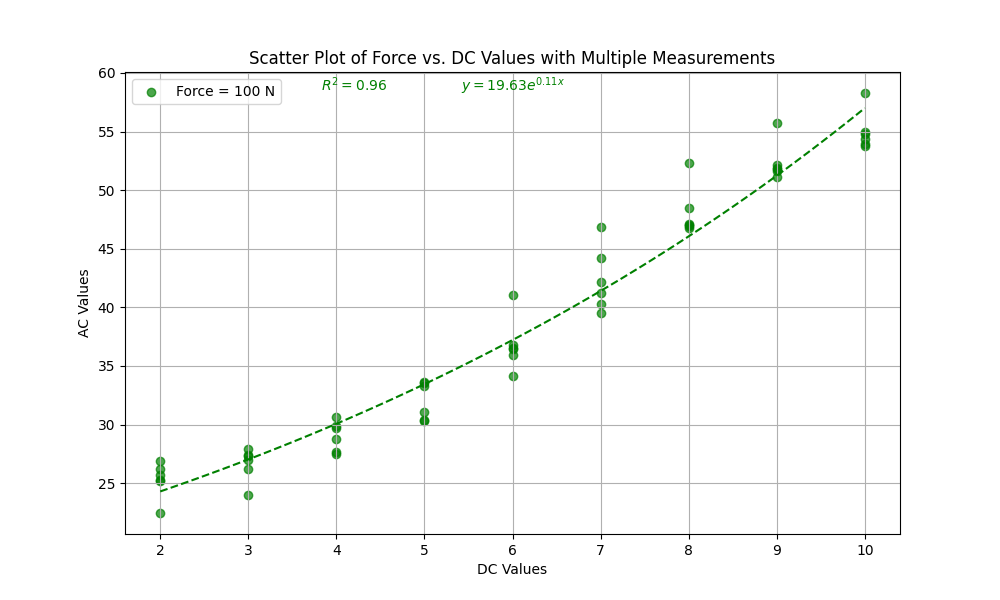
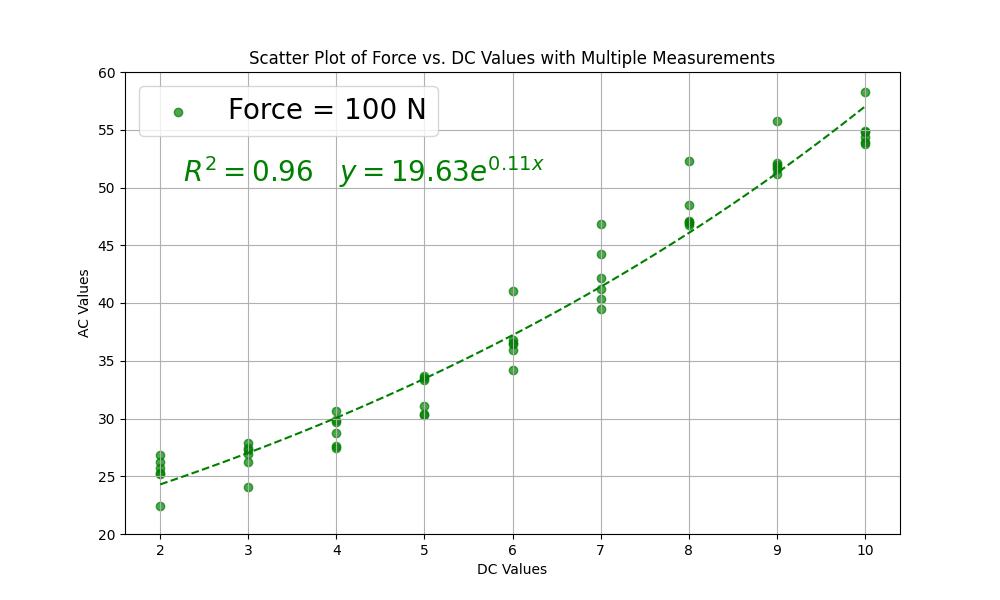
new plot

diff --git a/ProcessData.py b/ProcessData.py
@@ -183,21 +183,23 @@ for idx, (force, ac_values_list) in enumerate(data.items()):
         r_squared = 1 - (ss_res / ss_tot)
 
         # Determine the position to display R^2
-        plt.text(4.2,58.5,f'$R^2 = {r_squared:.2f}$', color=color, fontsize=10, ha='center')
+        plt.text(3,50.5,f'$R^2 = {r_squared:.2f}$', color=color, fontsize=20, ha='center')
         
         # Create the equation string
         a, b = params  # a and b are the coefficients for the exponential fit
         equation = f'$y = {a:.2f} e^{{{b:.2f} x}}$'
 
         # Display the equation on the plot
-        plt.text(6,58.5, equation, color=color, fontsize=10, ha='center')
+        plt.text(5.2,50.5, equation, color=color, fontsize=20, ha='center')
+
+        plt.ylim(20,60)
 
     # Adding labels and title
     plt.title('Scatter Plot of Force vs. DC Values with Multiple Measurements')
     plt.xlabel('DC Values')
     plt.ylabel('AC Values')
     plt.xticks(dc_values)  # Set x-ticks to DC values
-    plt.legend()
+    plt.legend(loc='upper left',fontsize = 20)
     plt.grid(True)
 
     # Save the plot as a file and show it
